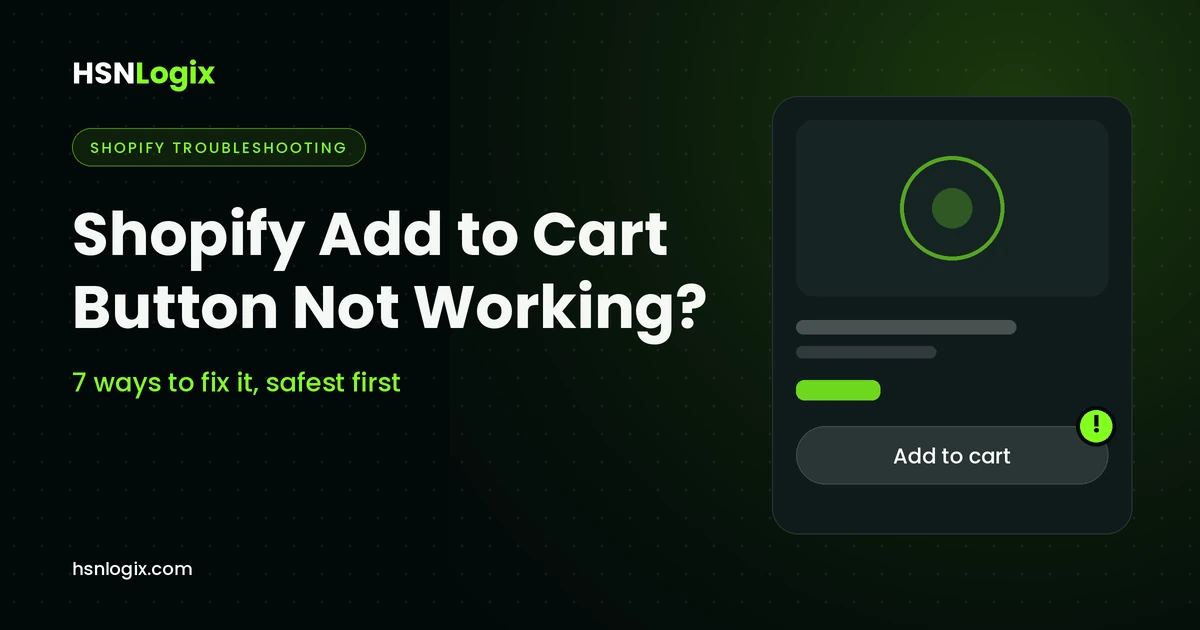
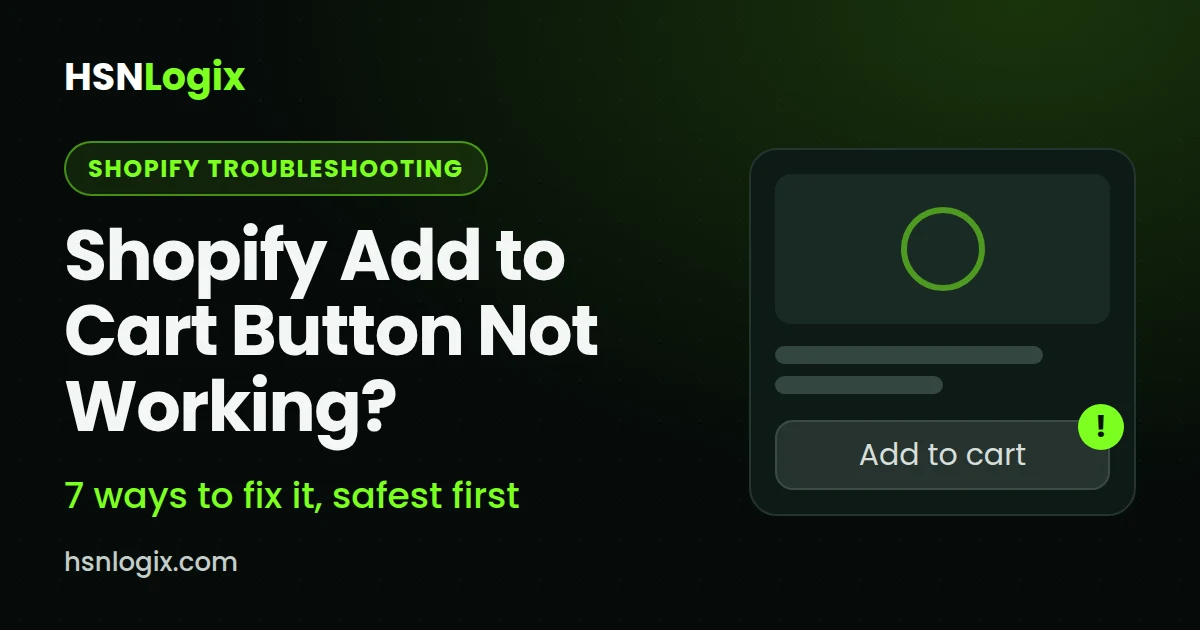
Blog: add step graphics with larger text to add to cart post, keep image aspect ratio on mobile
Claude-Session: https://claude.ai/code/session_01Q8koFxdAd9NzyBHNvD92iR

diff --git a/style-additions.css b/style-additions.css
@@ -2484,3 +2484,7 @@ main:focus { outline: none; }
     padding: 56px 24px;
   }
 }
+
+/* Blog images keep their aspect ratio when scaled down on narrow screens */
+article.blog-post .blog-post-body img,
+article.blog-post .blog-post-featured-image img { height: auto; }

diff --git a/_posts/2026-10-22-shopify-add-to-cart-button-not-working.md b/_posts/2026-10-22-shopify-add-to-cart-button-not-working.md
@@ -43,6 +43,8 @@ Two more cases to rule out:
 - **Markets.** If you sell in more than one market, a product has to be in the catalog assigned to a customer's market before that customer can see and buy it. Shopify's [catalog documentation](https://help.shopify.com/en/manual/markets/customizations/catalogs) says shoppers who open a product that is unavailable in their market are redirected to your homepage. Some merchants report a 404 page instead, so check market availability before assuming the button is broken.
 - **B2B.** If you sell to business customers, quantity rules on a catalog (minimums, maximums or increments) can stop a buyer from adding certain quantities.
 
+<img src="{{ '/blog-images/inbody-add-to-cart-inventory-check.webp' | relative_url }}" alt="Checklist graphic: product status Active, sales channel Online Store, and a variant with inventory 0 that shows as sold out." width="1200" height="675" loading="lazy" decoding="async">
+
 ## 3. Compare products and templates
 
 Test three or four different products. If the button fails on only some of them, check which product template each one uses in the admin, because different templates can show different layouts and settings. If every product fails, suspect your theme, an app or a site-wide script instead.
@@ -53,11 +55,15 @@ If the button is not visible at all, look at your theme's button color settings.
 
 If it fails only on mobile, switch the theme editor to the mobile view, review the product section's mobile settings, then confirm on a real phone. If the button seems unclickable in one spot, a chat widget, cookie banner or pop-up may be sitting on top of it. Turn those off temporarily and test again.
 
+<img src="{{ '/blog-images/inbody-add-to-cart-mobile-overlay.webp' | relative_url }}" alt="Phone mockup where a chat widget and a cookie banner cover the add to cart button." width="1200" height="675" loading="lazy" decoding="async">
+
 ## 5. Test apps for a conflict with your theme
 
 Apps that change the product page or the cart are a common cause. An app can attach to your theme as an app block, as an app embed, or through code added directly to theme files. In the theme editor, open App embeds, switch off the app you suspect, save, and test in a private window. If the app has no embed, check its settings or documentation.
 
 If you installed or updated an app just before the problem began, uninstalling it temporarily is a fair test, and Shopify's troubleshooting guide suggests it. Read the app's documentation first, because removing an app can delete its settings or data. If the button still fails after removal, the app is probably not the cause. One caution from our own work: some apps leave code behind in theme files after they are removed, so a developer may need to look for leftovers.
+
+<img src="{{ '/blog-images/inbody-add-to-cart-app-embeds.webp' | relative_url }}" alt="App embeds list with one app switched off to test for a conflict." width="1200" height="675" loading="lazy" decoding="async">
 
 ## 6. Look for a JavaScript error and a failed cart request
 
@@ -69,17 +75,21 @@ Most themes add items to the cart with JavaScript that talks to Shopify's Cart A
 
 A 422 status means Shopify refused the request, so read the response message. Shopify's [Cart API reference](https://shopify.dev/docs/api/ajax/reference/cart) lists two common causes: the product is sold out, or all of its remaining stock is already in the cart. A 422 is its own clue, separate from console errors, and does not by itself prove your JavaScript is broken. The file name in a console error usually shows whether your theme or an app is responsible. Fixing it generally means editing Liquid or JavaScript, which is not beginner work.
 
+<img src="{{ '/blog-images/inbody-add-to-cart-console-network.webp' | relative_url }}" alt="Browser console showing a red JavaScript error and the Network tab showing a cart/add.js request with a 422 status." width="1200" height="675" loading="lazy" decoding="async">
+
 ## 7. Test a fresh theme, then repair your code
 
 Add a free theme from the Shopify Theme Store (you do not need to publish it) and use Actions, then Preview, to test the button there. If it works in the fresh theme but not in yours, the problem is in your theme code or settings. If it fails in every theme, look at your admin settings and apps again. If it fails even in an updated, unmodified copy of your own theme, contact the theme's support team.
 
 If you know which file was changed before the problem started, open it in the code editor (Online Store, Themes, Actions, Edit code) and restore an earlier version from the file's history. Restoring an old version replaces the file as it is now, and the history is limited, so copy the current contents first. Duplicate your theme as a backup before any code edit, and only edit code if you know HTML, CSS and basic Liquid.
 
+<img src="{{ '/blog-images/inbody-add-to-cart-restore-version.webp' | relative_url }}" alt="Three steps: duplicate your theme, open the file history, restore an earlier version." width="1200" height="675" loading="lazy" decoding="async">
+
 ## How to confirm the fix worked
 
 Test in a private window on desktop and on a real phone, using more than one product and more than one variant. Confirm that the cart updates and that you can reach checkout. No single fix works for every store, because themes, apps and settings differ. If the problem returns later, repeat the checks above and note which step changes the result.
 
-<img src="{{ '/blog-images/inbody-add-to-cart-troubleshooting-flowchart.webp' | relative_url }}" alt="Flowchart: does the button work in a fresh theme? No points to your admin settings and apps, yes points to your theme code or settings." width="1200" height="700" loading="lazy" decoding="async">
+<img src="{{ '/blog-images/inbody-add-to-cart-troubleshooting-flowchart.webp' | relative_url }}" alt="Flowchart: does the button work in a fresh theme? No points to your admin settings and apps, yes points to your theme code or settings." width="1200" height="675" loading="lazy" decoding="async">
 
 ## Frequently asked questions
 
